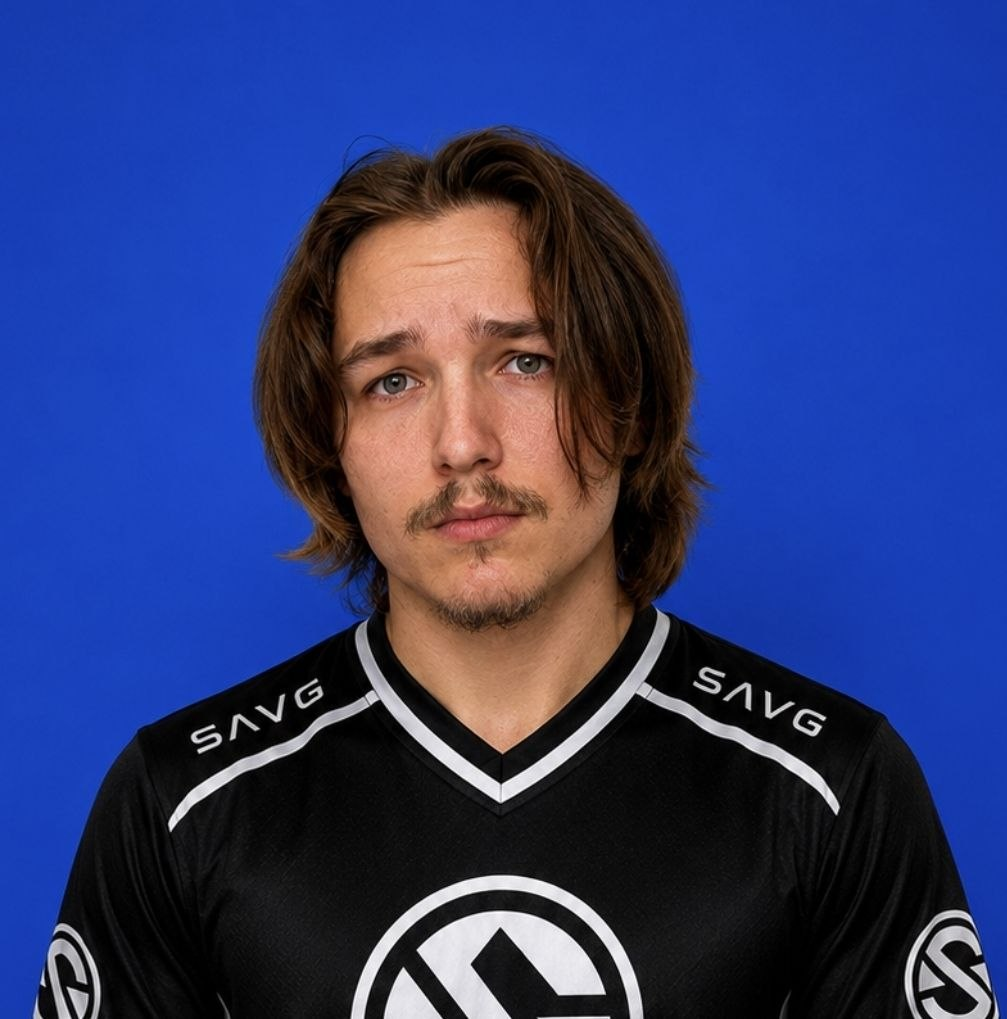
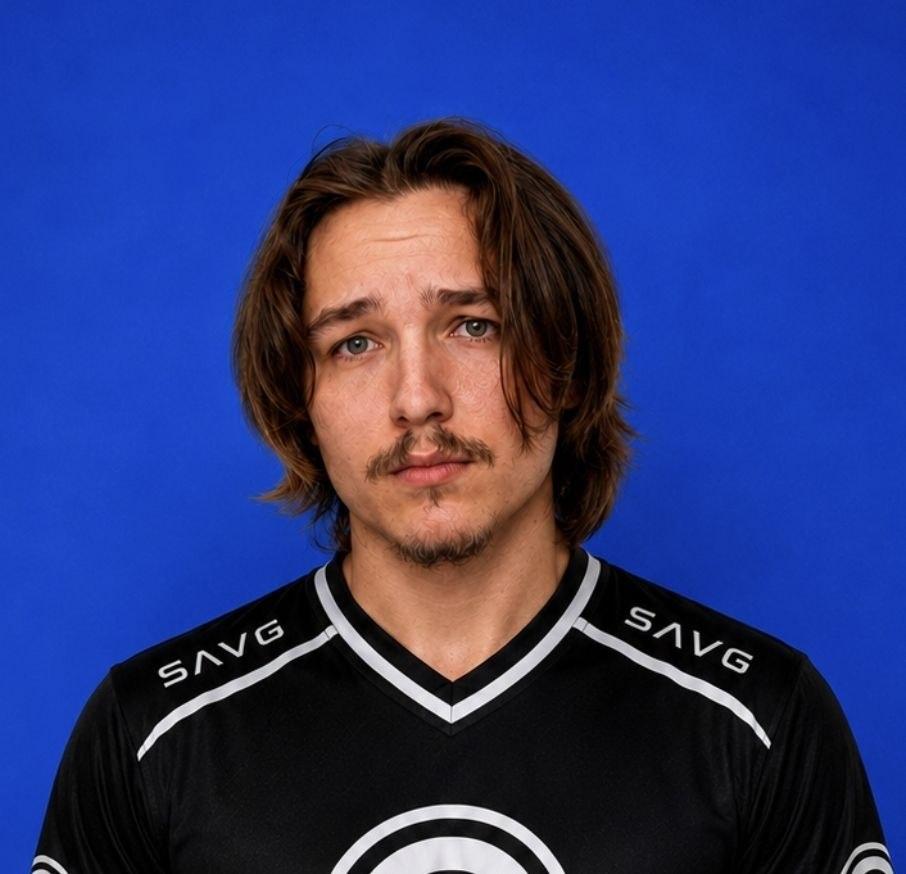
Add KXLLS photo, replace STELLARO1 photo

diff --git a/index.html b/index.html
@@ -133,7 +133,7 @@
         </div>
         <div class="player-card reveal reveal-d3">
           <div class="pc-img">
-            <img src="assets/player-placeholder.jpg" alt="Kxlls">
+            <img src="assets/player-kxlls.jpg" alt="Kxlls">
           </div>
           <div class="pc-body">
             <div class="pc-tag">Kxlls</div>

diff --git a/teams.html b/teams.html
@@ -78,7 +78,7 @@
     </div>
     <div class="player-card reveal reveal-d3">
       <div class="pc-img">
-        <img src="assets/player-placeholder.jpg" alt="Kxlls">
+        <img src="assets/player-kxlls.jpg" alt="Kxlls">
       </div>
       <div class="pc-body">
         <div class="pc-tag">Kxlls</div>
